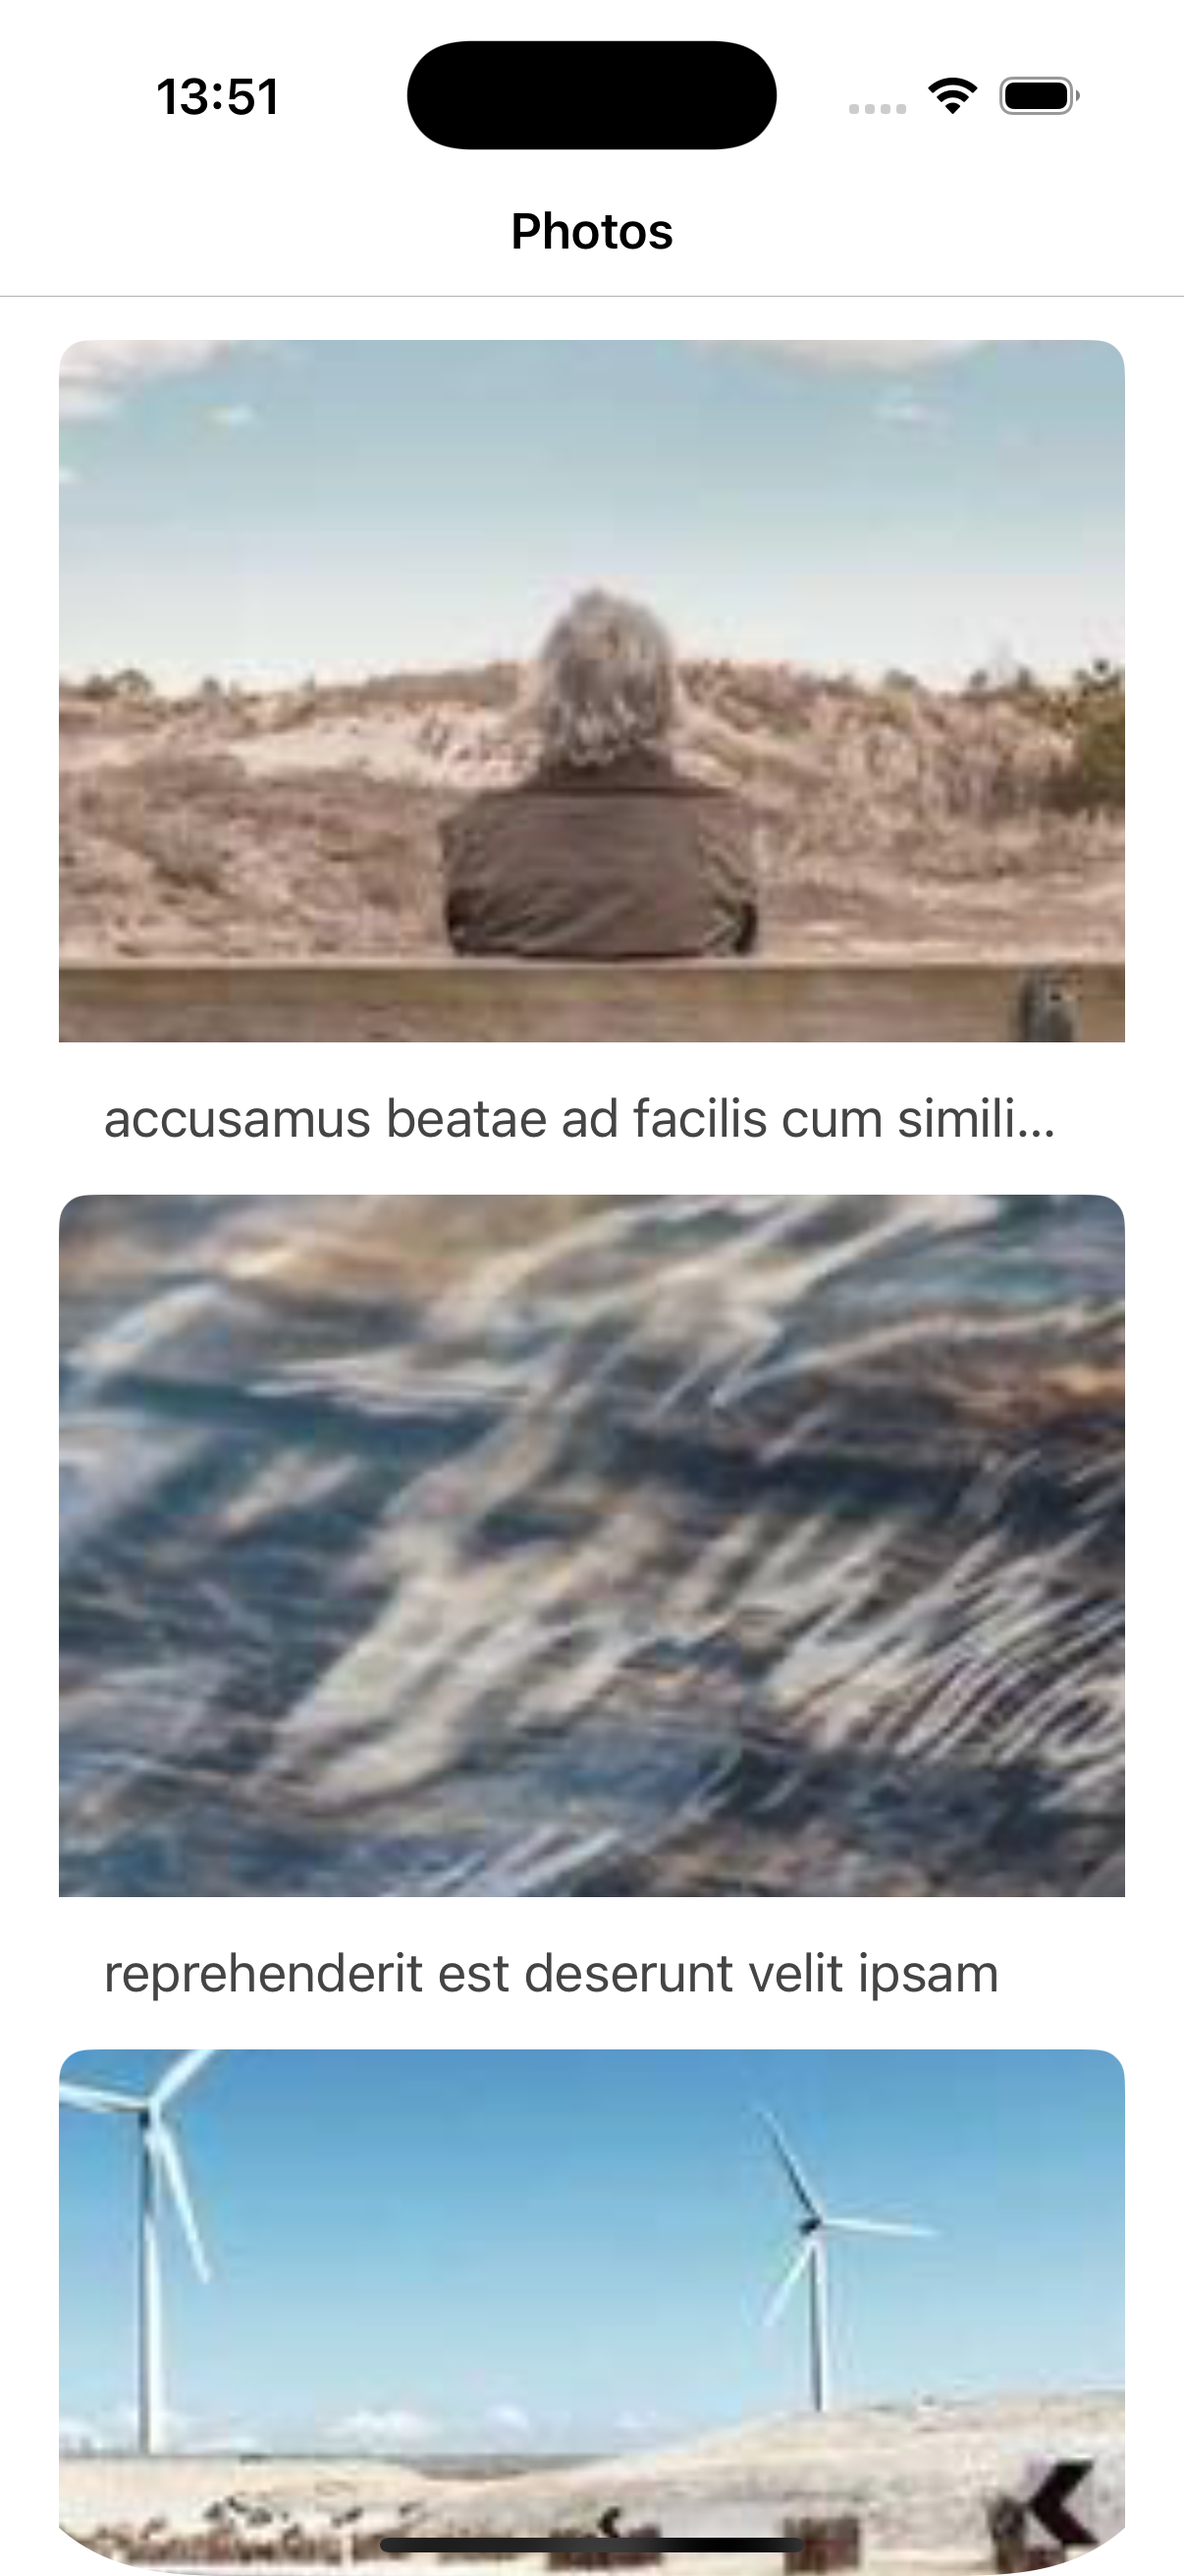
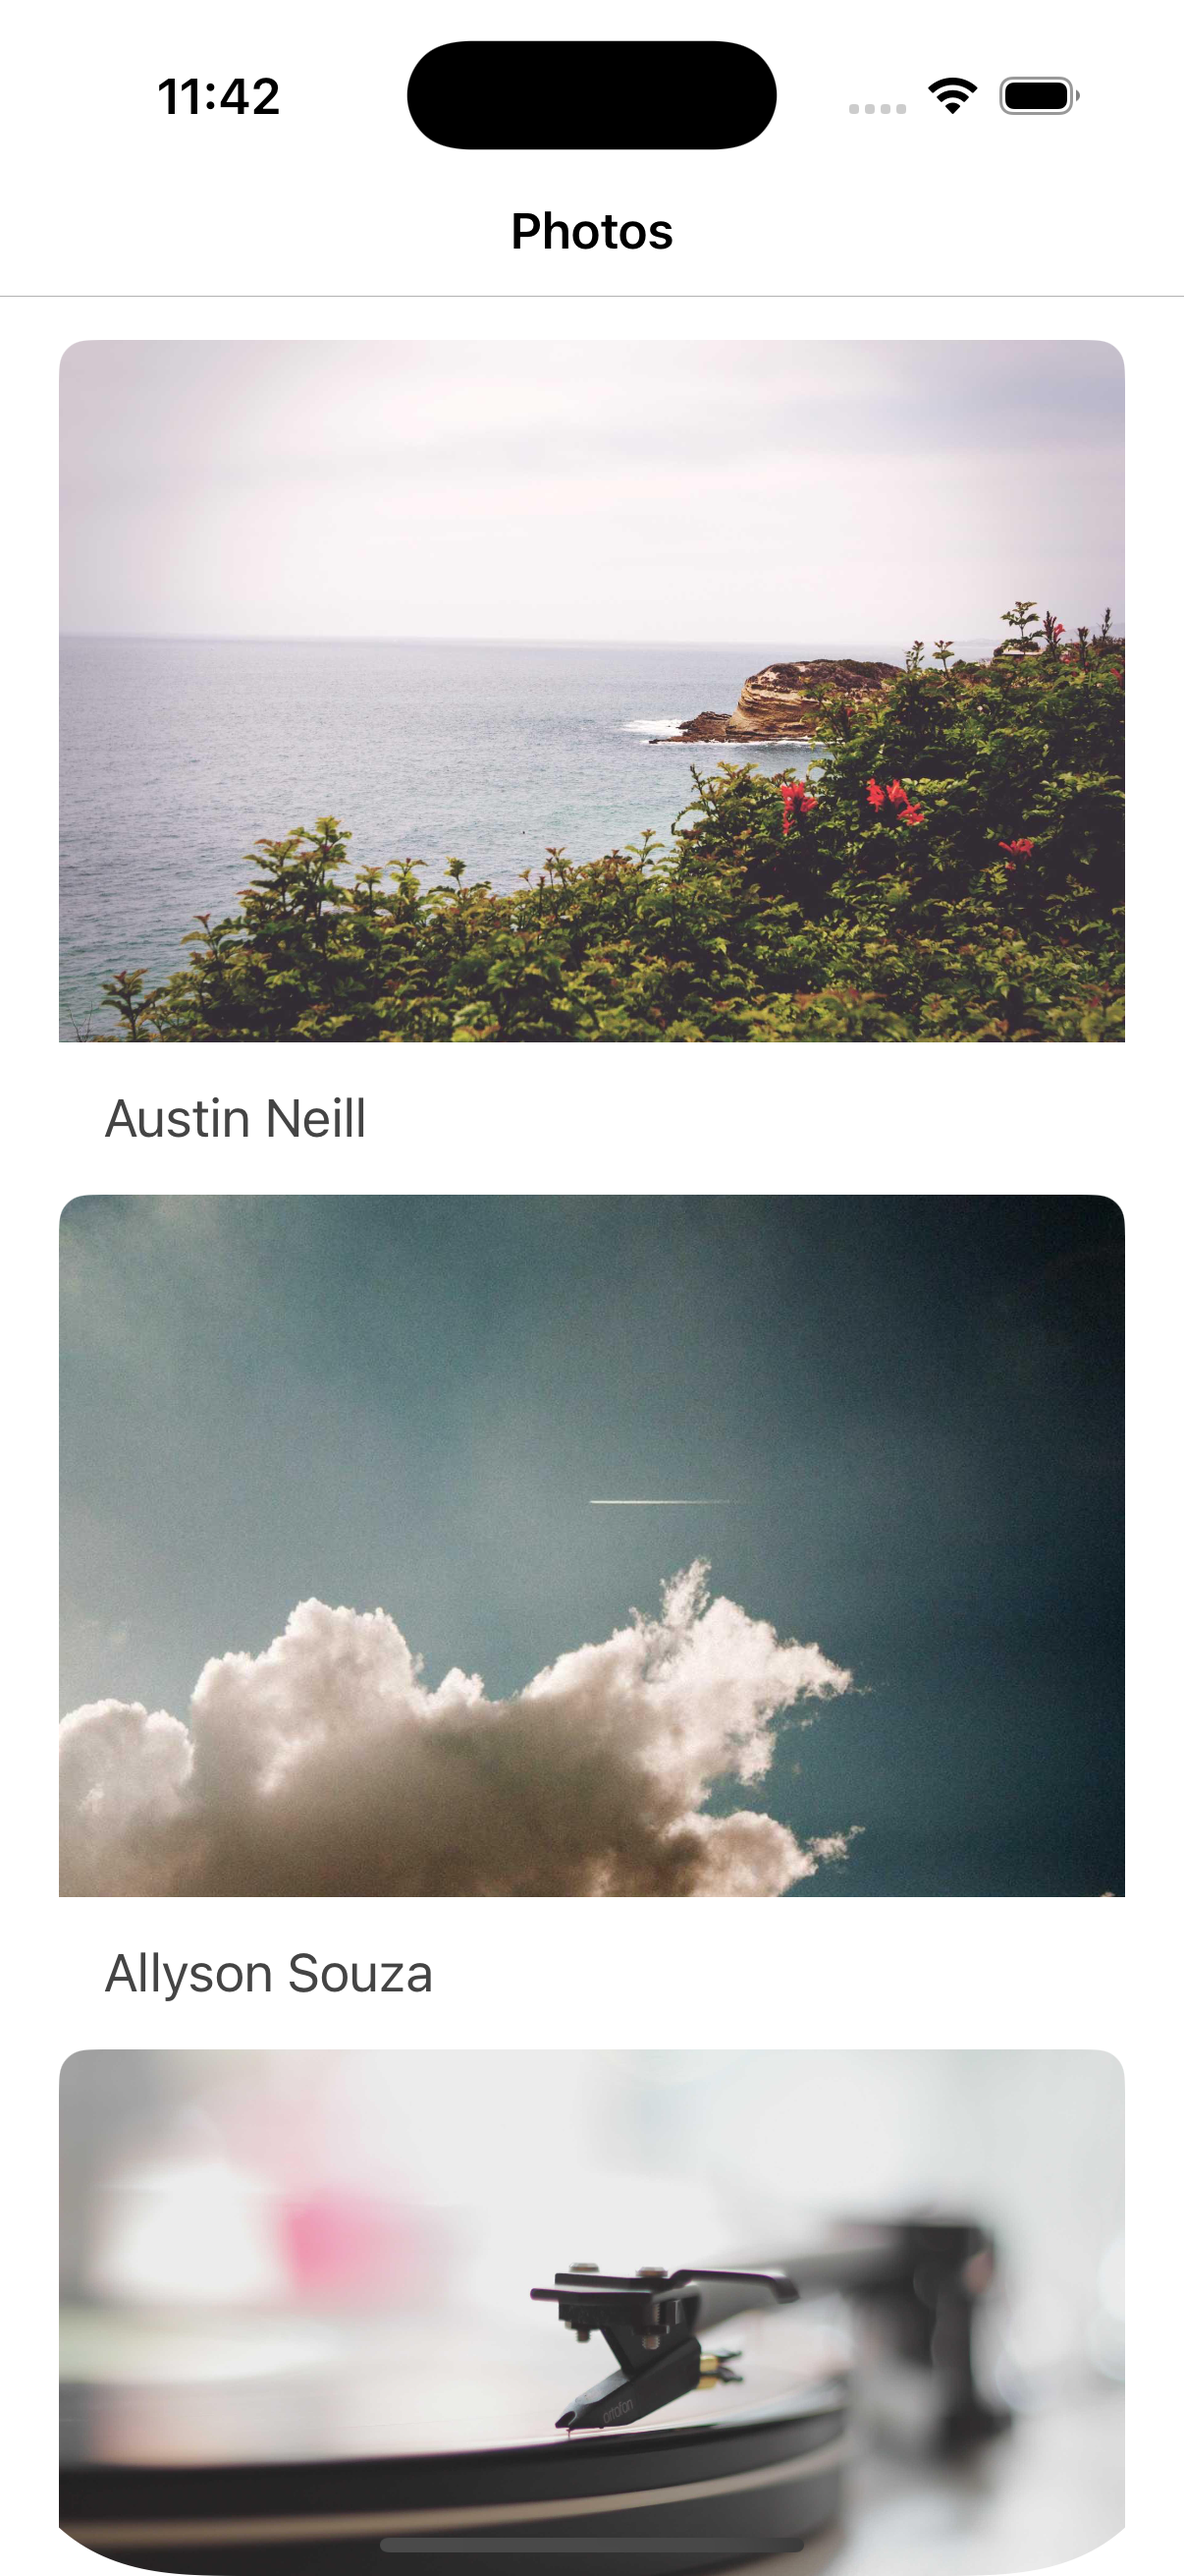
Update main and details page

diff --git a/nativescript/app/services/photos.service.js b/nativescript/app/services/photos.service.js
@@ -1,0 +1,66 @@
+const photos = [
+  {
+    id: "37",
+    author: "Austin Neill",
+    width: 2000,
+    height: 1333,
+    url: "https://unsplash.com/photos/erTjj730fMk",
+    download_url: "https://picsum.photos/id/37/2000/1333",
+  },
+  {
+    id: "38",
+    author: "Allyson Souza",
+    width: 1280,
+    height: 960,
+    url: "https://unsplash.com/photos/JabLtzJl8bc",
+    download_url: "https://picsum.photos/id/38/1280/960",
+  },
+  {
+    id: "39",
+    author: "Luke Chesser",
+    width: 3456,
+    height: 2304,
+    url: "https://unsplash.com/photos/pFqrYbhIAXs",
+    download_url: "https://picsum.photos/id/39/3456/2304",
+  },
+  {
+    id: "40",
+    author: "Ryan Mcguire",
+    width: 4106,
+    height: 2806,
+    url: "https://unsplash.com/photos/N-1XGL54pQg",
+    download_url: "https://picsum.photos/id/40/4106/2806",
+  },
+  {
+    id: "41",
+    author: "Nithya Ramanujam",
+    width: 1280,
+    height: 805,
+    url: "https://unsplash.com/photos/fTKetYpEKNQ",
+    download_url: "https://picsum.photos/id/41/1280/805",
+  },
+  {
+    id: "42",
+    author: "Luke Chesser",
+    width: 3456,
+    height: 2304,
+    url: "https://unsplash.com/photos/KR2mdHJ5qMg",
+    download_url: "https://picsum.photos/id/42/3456/2304",
+  },
+  {
+    id: "43",
+    author: "Oleg Chursin",
+    width: 1280,
+    height: 831,
+    url: "https://unsplash.com/photos/IoCWq07GaG4",
+    download_url: "https://picsum.photos/id/43/1280/831",
+  },
+];
+
+export function getPhotos() {
+  return photos;
+}
+
+export function getPhotoById(id) {
+  return photos.find((it) => it.id === id) || undefined;
+}

diff --git a/nativescript/app/home/home-page.js b/nativescript/app/home/home-page.js
@@ -1,0 +1,29 @@
+import { Frame, Observable, ObservableArray } from "@nativescript/core";
+import * as PhotoService from "../services/photos.service";
+
+function createViewModel() {
+  const viewModel = new Observable();
+  viewModel.photos = PhotoService.getPhotos();
+
+  viewModel.onRefresh = () => {
+    viewModel.set("photos", PhotoService.getPhotos());
+  };
+
+  viewModel.onPhotoTap = (args) => {
+    Frame.topmost().navigate({
+      moduleName: "details/details-page",
+      context: { photoId: viewModel.photos[args.index].id },
+    });
+  };
+
+  return viewModel;
+}
+
+export function onNavigatingTo(args) {
+  if (args.isBackNavigation) {
+    return;
+  }
+
+  const page = args.object;
+  page.bindingContext = createViewModel();
+}

diff --git a/nativescript/app/main/main-view-model.js b/nativescript/app/main/main-view-model.js
@@ -1,0 +1,22 @@
+import { Observable } from "@nativescript/core";
+
+function getMessage(counter) {
+  if (counter <= 0) {
+    return "Hoorraaay! You unlocked the NativeScript clicker achievement!";
+  } else {
+    return `${counter} taps left`;
+  }
+}
+
+export function createViewModel() {
+  const viewModel = new Observable();
+  viewModel.counter = 42;
+  viewModel.message = getMessage(viewModel.counter);
+
+  viewModel.onTap = () => {
+    viewModel.counter--;
+    viewModel.set("message", getMessage(viewModel.counter));
+  };
+
+  return viewModel;
+}

diff --git a/nativescript/app/details/details-page.js b/nativescript/app/details/details-page.js
@@ -1,0 +1,18 @@
+import { Observable } from "@nativescript/core";
+import * as PhotoService from "../services/photos.service";
+
+function createViewModel(args) {
+  const viewModel = new Observable();
+  viewModel.photo = PhotoService.getPhotoById(args.photoId);
+
+  viewModel.onRefresh = () => {
+    viewModel.set("photo", PhotoService.getPhotoById(args.photoId));
+  };
+
+  return viewModel;
+}
+
+export function onNavigatingTo(args) {
+  const page = args.object;
+  page.bindingContext = createViewModel(page.navigationContext);
+}

diff --git a/nativescript/app/app.js b/nativescript/app/app.js
@@ -1,0 +1,14 @@
+/*
+In NativeScript, the app.js file is the entry point to your application.
+You can use this file to perform app-level initialization, but the primary
+purpose of the file is to pass control to the app’s first module.
+*/
+
+import { Application } from '@nativescript/core';
+
+Application.run({ moduleName: 'app-root' })
+
+/*
+Do not place any code after the application has been started as it will not
+be executed on iOS.
+*/

diff --git a/nativescript/webpack.config.js b/nativescript/webpack.config.js
@@ -1,0 +1,10 @@
+const webpack = require("@nativescript/webpack");
+
+module.exports = (env) => {
+	webpack.init(env);
+
+	// Learn how to customize:
+	// https://docs.nativescript.org/webpack
+
+	return webpack.resolveConfig();
+};

diff --git a/nativescript/app/main/main-page.js b/nativescript/app/main/main-page.js
@@ -1,0 +1,6 @@
+import { createViewModel } from "./main-view-model";
+
+export function onNavigatingTo(args) {
+  const page = args.object;
+  page.bindingContext = createViewModel();
+}

diff --git a/nativescript/README.md b/nativescript/README.md
@@ -49,5 +49,190 @@ No issues were detected.
 
 ![Set up](/screenshots/00-setup.png)
 
-### Home screen
+### UI
 
+Native script works with a 2 way binding between the UI described in xml files and the corresponding view model written in javascript. 
+
+The minimal example would be to create a `sample-page.xml` and a corresponding `sample-page.js`:
+
+```xml
+<Page xmlns="http://schemas.nativescript.org/tns.xsd" navigatingTo="navigatingTo">
+    <ActionBar title="Sample" />
+    <StackLayout class="p-20">
+        <Label text="{{ message }}" class="h2 text-center" textWrap="true" />
+        <Button text="Tap here" tap="{{ onTap }}" class="-primary" />
+    </StackLayout>
+</Page>
+```
+
+```js
+import { Observable } from "@nativescript/core";
+
+function createViewModel() {
+  const viewModel = new Observable();
+  viewModel.message = "Hello world!"
+  return viewModel;
+}
+
+export function navigatingTo(args) {
+  const page = args.object;
+  page.bindingContext = createViewModel();
+}
+```
+ 
+In this example the UI invokes the `navigatingTo()` whenever the page is rendered for the first time where can create our view model as an `Observable` type and pass it back to the UI as `bindingContext`.
+
+Based on this information, if we mock a `PhotoService` as:
+
+```js
+photos = [
+    {
+      id: "37",
+      author: "Austin Neill",
+      width: 2000,
+      height: 1333,
+      url: "https://unsplash.com/photos/erTjj730fMk",
+      download_url: "https://picsum.photos/id/37/2000/1333",
+    },
+    /* ... */
+];
+
+export function getPhotos() {
+  return photos;
+}
+
+export function getPhotoById(id) {
+  return photos.find((it) => it.id === id) || undefined;
+}
+```
+
+Then we can create our `home-page` as:
+
+```xml
+<Page xmlns="http://schemas.nativescript.org/tns.xsd" navigatingTo="navigatingTo">
+  <ActionBar title="Photos" />
+  <StackLayout height="100%">
+    <ListView
+      height="100%"
+      separatorColor="transparent"
+      items="{{ photos }}"
+      itemTap="{{ onPhotoTap }}"
+      margin="10"
+    >
+      <ListView.itemTemplate>
+        <GridLayout
+          height="280"
+          borderRadius="10"
+          class="bg-secondary"
+          rows="*, auto, auto"
+          columns="*"
+          margin="5 10"
+          padding="0"
+        >
+          <Image
+            row="0"
+            margin="0"
+            stretch="aspectFill"
+            src="{{ download_url }}"
+            backgroundColor="grey"
+          />
+          <Label
+            row="1"
+            margin="10 10 0 10"
+            fontWeight="400"
+            class="text-primary"
+            fontSize="18"
+            text="{{ author }}"
+          />
+        </GridLayout>
+      </ListView.itemTemplate>
+    </ListView>
+  </StackLayout>
+</Page>
+```
+
+```js
+import { Frame, Observable, ObservableArray } from "@nativescript/core";
+import * as PhotoService from "../services/photos.service";
+
+function createViewModel() {
+  const viewModel = new Observable();
+  viewModel.photos = PhotosService.getPhotos();
+  viewModel.onPhotoTap = (args) => { /* TODO */ };
+  return viewModel;
+}
+
+export function navigatingTo(args) {
+  if (args.isBackNavigation) {
+    return;
+  }
+
+  const page = args.object;
+  page.bindingContext = createViewModel();
+}
+```
+
+![Home](/screenshots/01-home.png)
+
+And our details page as:
+
+```xml
+<Page xmlns="http://schemas.nativescript.org/tns.xsd" navigatingTo="navigatingTo">
+    <ActionBar title="{{ photo.author }}" />
+     <StackLayout class="p-20">
+        <Image src="{{ photo.download_url}}" />
+        <Label text="{{ photo.url }}" class="caption text-center" textWrap="true" />
+    </StackLayout>
+</Page>
+```
+
+```js
+import { Observable } from "@nativescript/core";
+import * as PhotoService from "../services/photos.service";
+
+function createViewModel() {
+  const viewModel = new Observable();
+  viewModel.photo = PhotosService.getPhotoById("42");
+  return viewModel;
+}
+
+export function navigatingTo(args) {
+  const page = args.object;
+  page.bindingContext = createViewModel();
+}
+```
+
+![Details](/screenshots/02-details.png)
+
+### Navigation
+
+To navigate from home to details page we need update our `home-page.js` to:
+
+```js
+  viewModel.onPhotoTap = (args) => {
+    Frame.topmost().navigate({
+      moduleName: "details/details-page",
+      context: { photoId: viewModel.photos[args.index].id },
+    });
+  };
+```
+
+And then the `details-page.js` to parse the `photoId`
+
+```js
+function createViewModel(args) {
+  const viewModel = new Observable();
+  viewModel.photo = PhotoService.getPhotoById(args.photoId);
+
+  viewModel.onRefresh = () => {
+    viewModel.set("photo", PhotoService.getPhotoById(args.photoId));
+  };
+
+  return viewModel;
+}
+
+export function onNavigatingTo(args) {
+  const page = args.object;
+  page.bindingContext = createViewModel(page.navigationContext);
+}
+```
